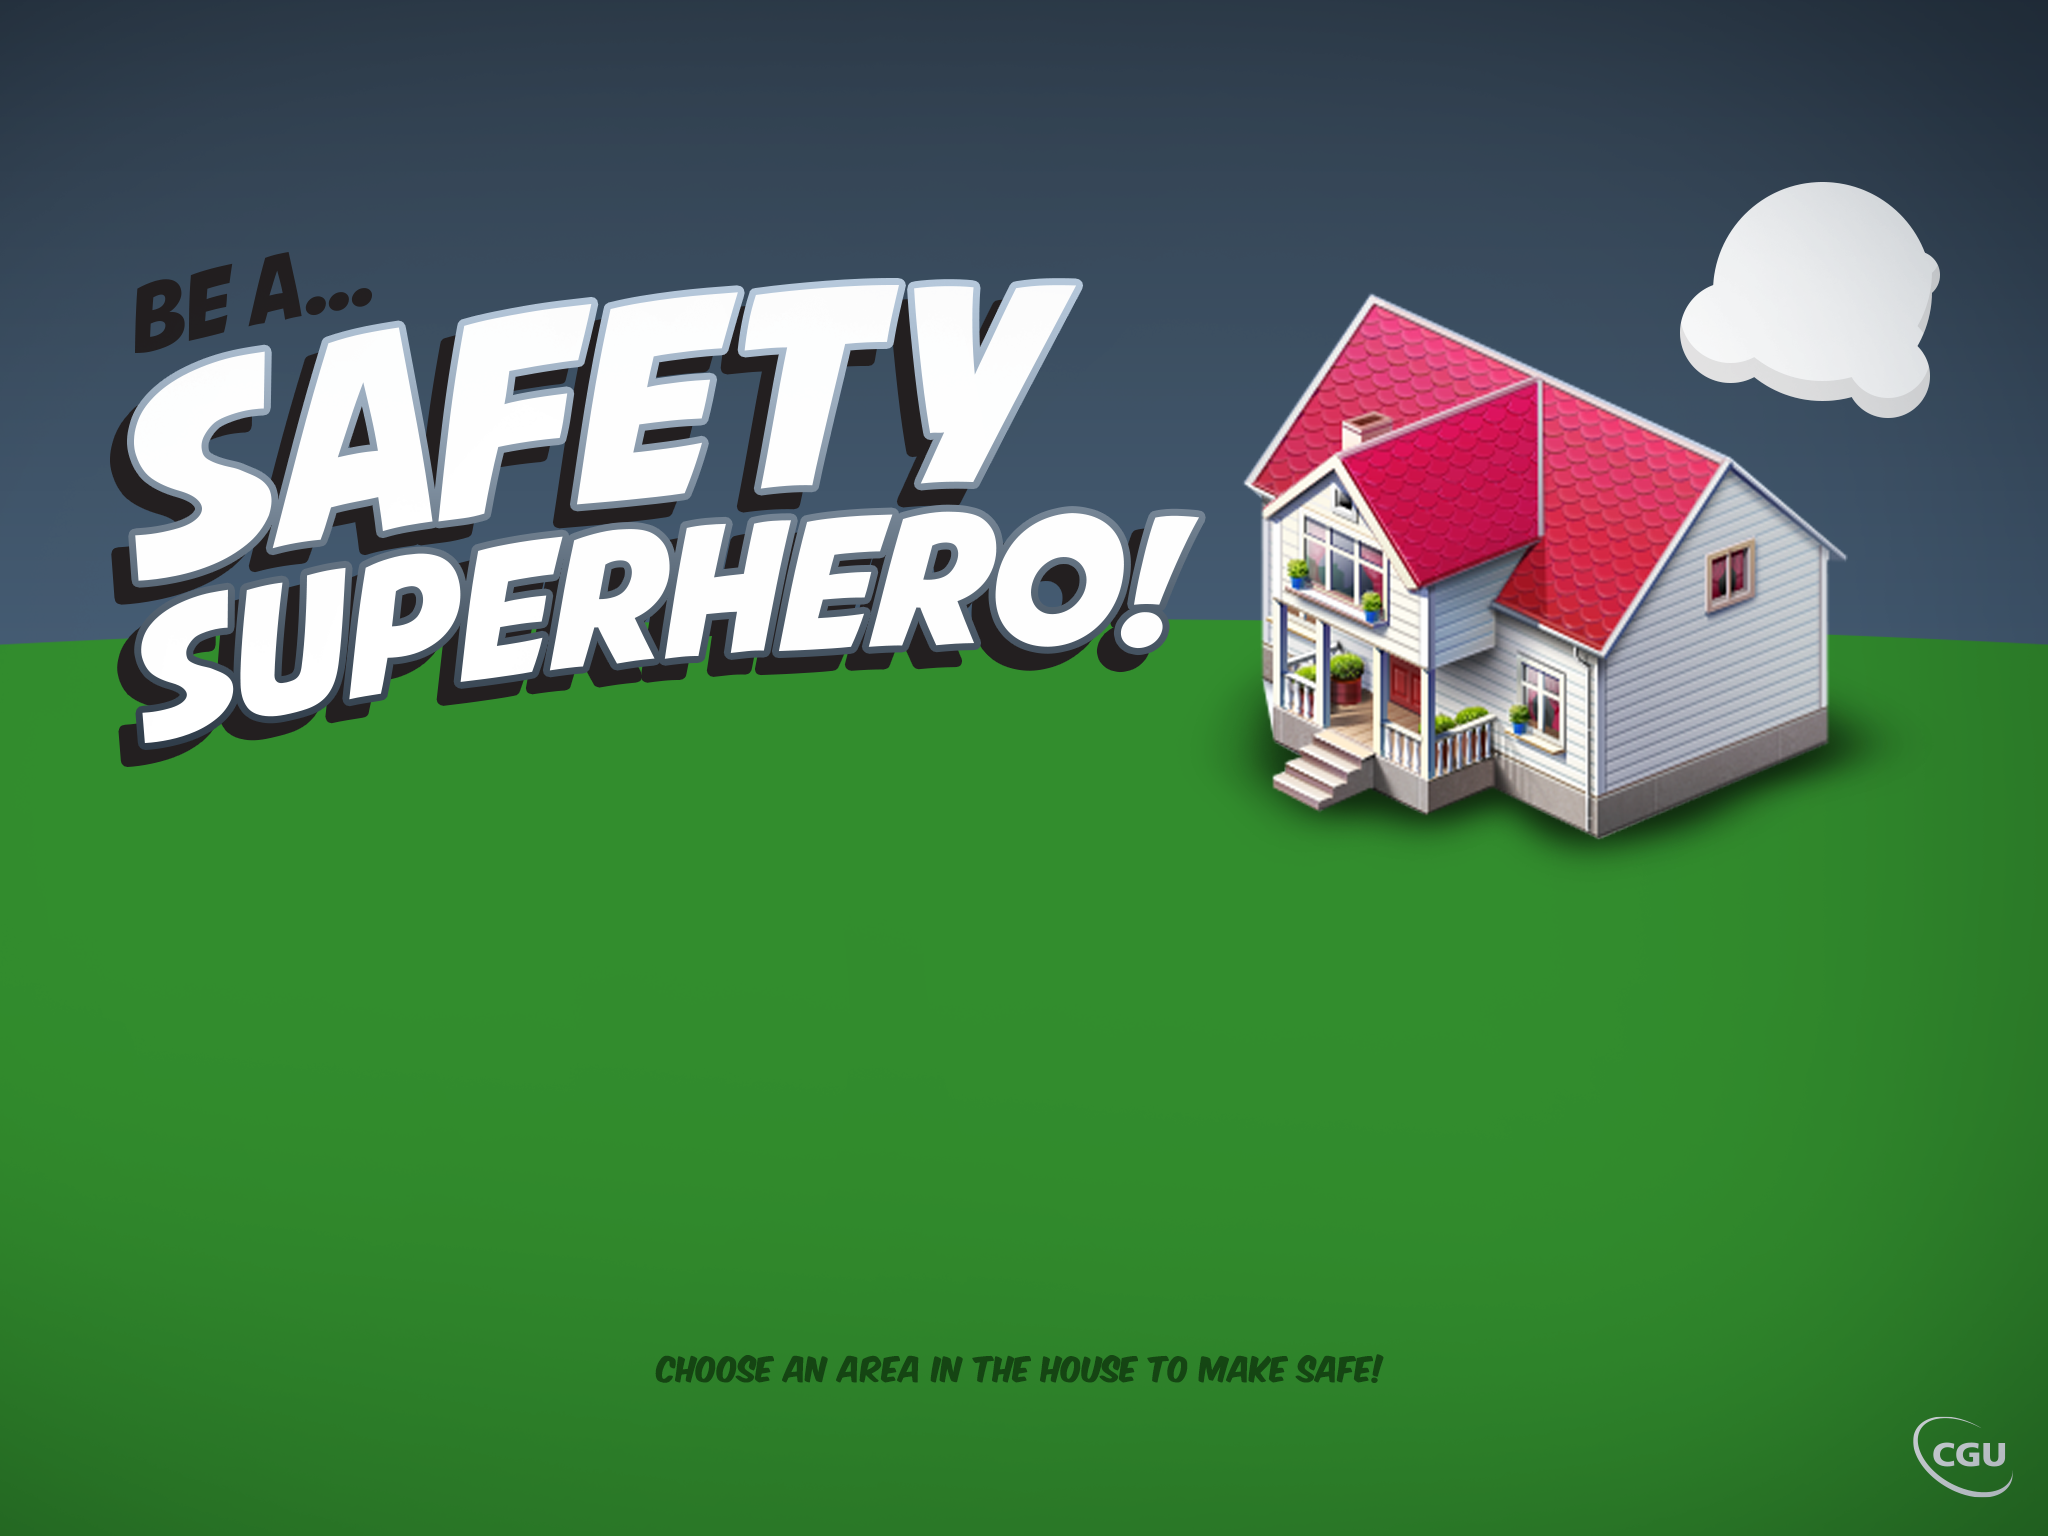
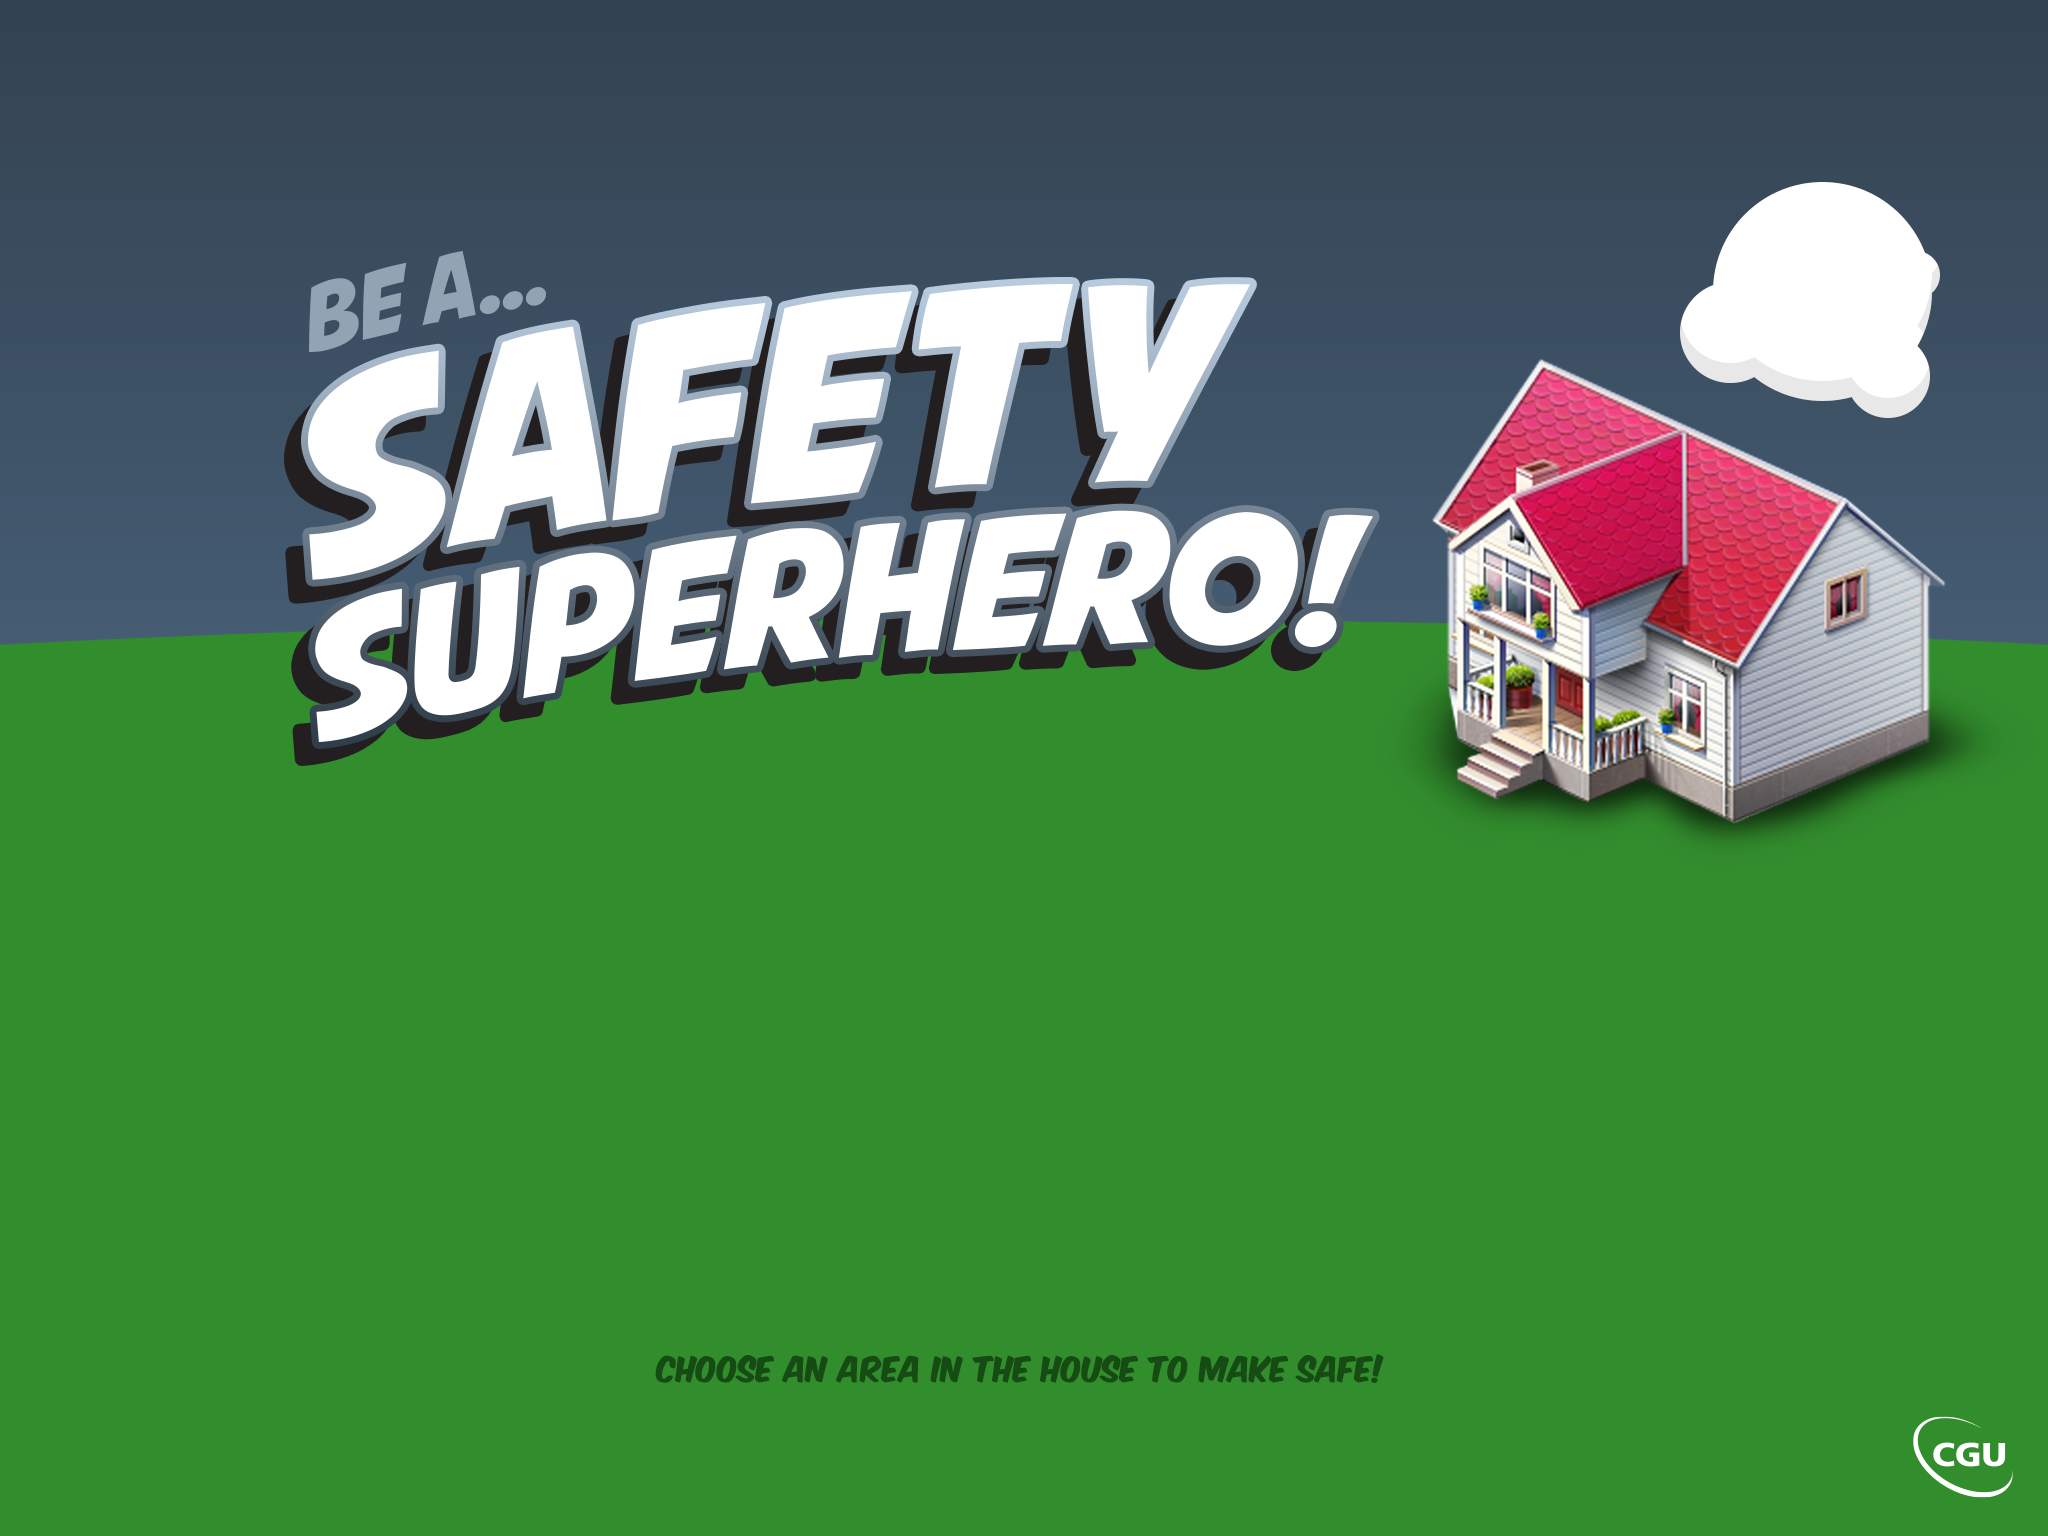
fuuck this fucking shit

diff --git a/app/scripts/main.js b/app/scripts/main.js
@@ -29,7 +29,6 @@ $( document ).ready(function() {
     // Clicked puddle
     $('div#puddleGameArea').click(function() {
         var puddleGame = new PuddleGame();
-
         $('#puddleGameWindow').addClass('active');
         $('#progress').addClass('animate');
         setTimeout(function() {
@@ -116,12 +115,16 @@ $( document ).ready(function() {
     $('div#stoveTopGameArea').click(function() {
         var that = this;
         $('#stoveTopGameWindow').addClass('active');
+        $('#stoveGameInfoContainerText').addClass('animated bounceInUp');
+        $('#stoveGameInfoContainerText').fadeIn();
+
         $('#progress').addClass('animate');
 
         var stoveGame = new StoveTop(function() {
             $('#stoveTopCanvas').remove();
             $('#stoveTopGameWindow').removeClass('active');
             $('#progress').removeClass('animate');
+            $('#stoveGameInfoContainerText').fadeOut();
 
             clearTimeout(stoveTimer);
             $('#stoveTopGameWindow').empty();
@@ -134,6 +137,7 @@ $( document ).ready(function() {
             $('#stoveTopAnswer1').click(function() {
                 $('#stoveTopWinState').fadeIn();
                 $('#stoveTopQuestionBox').fadeOut();
+
                 setTimeout(function() {
                     $('#stoveTopWinState').fadeOut();
                 }, 2000);
@@ -143,6 +147,7 @@ $( document ).ready(function() {
             $('#stoveTopAnswer2').click(function() {
                 $('#stoveTopLoseState').fadeIn();
                 $('#stoveTopQuestionBox').fadeOut();
+
                 setTimeout(function() {
                     $('#stoveTopLoseState').fadeOut();
                 }, 2000);
@@ -150,7 +155,7 @@ $( document ).ready(function() {
 
         });
 
-    // clicked oven
+    /* clicked oven
     $('div#ovenGameArea').click(function() {
         var that = this;
         console.log('show oven');
@@ -158,8 +163,12 @@ $( document ).ready(function() {
         $('#progress').addClass('animate');
         $('#kitchenInfo').removeClass('bounceInUp');
         $('#kitchenInfo').addClass('flipOutX');
-
+          $('#ovenGameWindow').click(function() {
+              $('#ovenGameWindow').fadeOut();
+          });
     });
+         */
+
 
         var stoveTimer = setTimeout(function() {
             $('#stoveTopGameWindow').removeClass('active');
@@ -182,6 +191,7 @@ $( document ).ready(function() {
 
     $('.goToKitchen').click(function() {
         $('#homeMenu').addClass('hinge');
+        $('#kitchenDude').addClass('tada');
         $('#KitchenContainer').removeClass('animated fadeOut');
 
         $('#KitchenContainer').addClass('animated fadeIn');

diff --git a/app/styles/main.css b/app/styles/main.css
@@ -17,6 +17,12 @@ body {
 
 }
 
+img#homeHero {
+
+    position:fixed;
+    top: 270px;
+    left: 20px;
+}
 div#stoveTopGameArea {
     width: 197px;
     height: 73px;
@@ -118,7 +124,7 @@ div.questionBox .answer:hover {
 div.winLoseModal {
     color: #fff;
     position: absolute;
-    left: 220px;
+    left: 253px;
     top: 118px;
     padding-top: 188px;
     width: 500px;
@@ -153,6 +159,26 @@ div.winLoseModal h2 {
 }
 
 
+
+div.promptDude {
+    background-image: url('../images/promptDude.png');
+    background-size: 140px 165px;
+    width: 140px;
+    height: 165px;
+    position: absolute;
+}
+
+div#kitchenDude {
+    z-index: 50;
+    top: 10px;
+    left:40px;
+}
+
+div#puddleDude {
+    top: 30px;
+    left: 30px;
+    z-index: 100;
+}
 div#puddleGameWindow {
     position:fixed;
     top:-1024px;
@@ -229,8 +255,9 @@ div#kitchenInfo {
     border-radius: 30px;
     color: #fff;
     font-size: 1.5em;
-    top: 30px;
-    left: 120px;
+    top: 79px;
+    left: 154px;
+    padding-left: 40px;
     position: absolute;
 }
 
@@ -357,14 +384,19 @@ div#puddleGameInfoContainer {
     z-index:1000;
 }
 
-div#puddleGameInfoContainerText {
+div#puddleGameInfoContainerText,  div#stoveGameInfoContainerText{
     color: #fff;
-    background: rgba(0,0,0,0.5);
-    padding: 15px 30px 20px 30px;
+    background-image: url('../images/promptDude.png');
+    background-repeat: no-repeat;
+    background-size: 45px 45px;
+
+    background-position: 10px center;
+    background-color: rgba(0,0,0,0.5);
+    padding: 15px 30px 20px 65px;
     border-radius: 30px;
     position: fixed;
     top: 665px;
-    left: 105px;
+    left: 80px;
     font-size: 1.7em;
     display: none;
 }
@@ -459,7 +491,7 @@ filter: alpha(opacity=25);
 
 #logfire {
     position: absolute;
-    height: 400px;
+    height: 200px;
     left: 209px;
     top: 94px;
 }

diff --git a/app/index.html b/app/index.html
@@ -26,6 +26,9 @@
 
     <div id="KitchenContainer">
 
+        <div class="promptDude animated" id="kitchenDude">
+
+        </div>
 
         <div id="stoveTopGameArea">
         </div>
@@ -67,6 +70,7 @@
             <div id="stoveTopAnswer1" class="answer">Handles away from you</div>
             <div id="stoveTopAnswer2" class="answer">Handles towards you</div>
         </div>
+
 
         <div id="stoveTopWinState" class="winLoseModal win">
             <h2>Congratulations!</h2>
@@ -122,7 +126,8 @@
                 <p>Choose an area in the house to make safe!</p>
             </div-->
 
-
+             <img id="homeHero" src="images/superhero_home.png" width="139" height="216" class="animated fadeInDownBig" />
+            <div id="containerDude"></div>
             <div id="kitchenStars"> </div>
 
             <div id="menuKitchenImage" class="animated  goToKitchen roomIcon">
@@ -164,16 +169,20 @@
         </div>
     <div id="stoveTopGameWindow">
         <canvas id="stoveTopCanvas" width="1024" height="768"></canvas>
+        <div id="stoveGameInfoContainerText">Arrange the pan handles to be safer!</div>
+
     </div>
+
 
       <div id="puddleGameInfoContainer">
           <div id="progressbar"><div id="progress"><div id="pbaranim"></div></div></div>
           <div id="puddleGameInfoContainerText">Superheroes! What tool will you choose for this spill?</div>
+          <div id="puddleDude" class="kitchenDude"></div>
+
       </div>
     <div id="puddleGameWindow">
     </div>
     <div id="ovenGameWindow">
-        <div id="ovenGameInfoContainerText">DON'T TOUCH THE OVEN!</div>
     </div>
     <audio id="audio_1" preload loop autoplay>
         <source src="/images/background.mp3">
